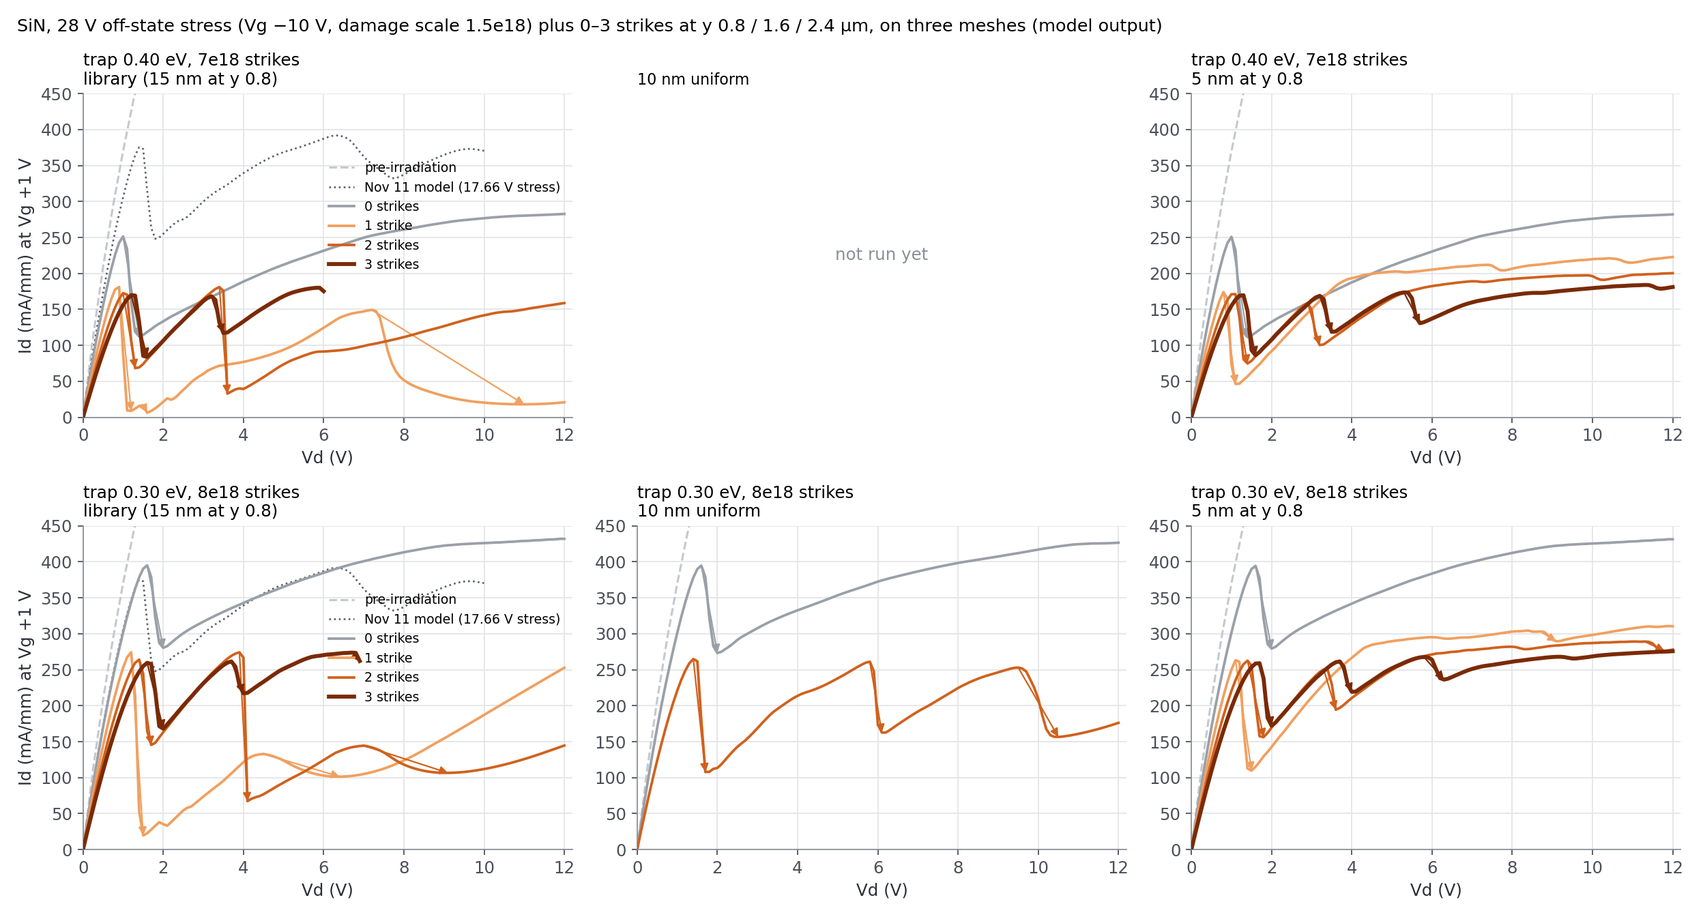
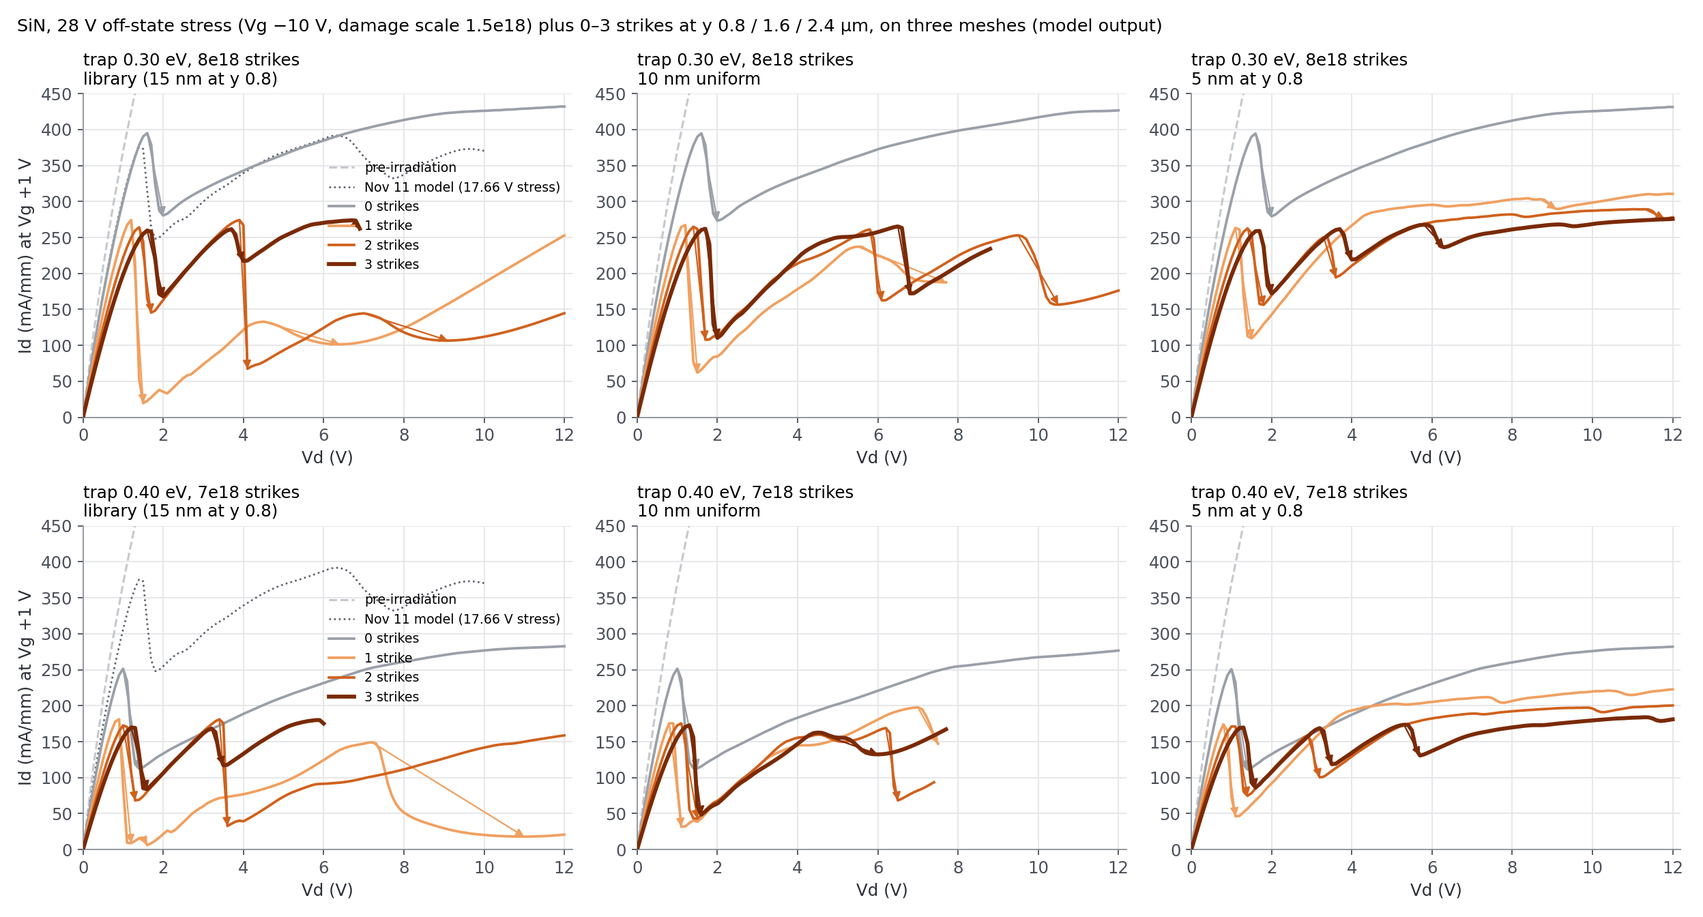
dashboard Nov 20 page: mesh-robust stepped series (trap 0.30 / 8e18 steps 2-3 times at every strike count on 15/10/5 nm); KB step-search table; fact-check fixes

diff --git a/dashboard/hemt-collapse-log.html b/dashboard/hemt-collapse-log.html
@@ -120,7 +120,7 @@ code { font-family: var(--f-mono); font-size: .88em; background: var(--gray-soft
   <header class="top">
     <h1>Radiation-induced current collapse: work log</h1>
     <p class="lede">FLOOXS model of an AlGaN/GaN HEMT: what ran each day and what is still open. Id in <span style="white-space:nowrap">mA/mm</span> at Vg = −2 V unless noted; work before Oct 1 used constant mobility and is archived.</p>
-    <p class="meta">Snapshot Nov 19, evening</p>
+    <p class="meta">Snapshot Nov 20, morning</p>
   </header>
 
   <div class="layout">
@@ -128,6 +128,7 @@ code { font-family: var(--f-mono); font-size: .88em; background: var(--gray-soft
       <a href="#overview" data-page="overview"><span class="d">Overview</span><span class="t">status</span></a>
       <div class="sep"></div>
       <div class="era">Field mobility</div>
+      <a href="#nov20" data-page="nov20"><span class="d">Nov 20</span><span class="t">mesh-robust steps</span></a>
       <a href="#nov19" data-page="nov19"><span class="d">Nov 19</span><span class="t">why it steps · mesh</span></a>
       <a href="#nov18" data-page="nov18"><span class="d">Nov 17–18</span><span class="t">steps · 3D fix</span></a>
       <a href="#nov16" data-page="nov16"><span class="d">Nov 14–16</span><span class="t">saved stress · library</span></a>
@@ -163,26 +164,27 @@ code { font-family: var(--f-mono); font-size: .88em; background: var(--gray-soft
       <section class="page" id="overview" data-title="Overview">
         <div class="pagehead">
           <h2>Where things stand</h2>
-          <p>Each drop is one damaged spot of the 2DEG switching once about 0.5 V of the shared drain voltage sits across it, so strikes add or delay steps; on a finer mesh the strike steps shrink (one strike's y 0.8 drop goes from 105 to 20 mA/mm). Next: a 2.5 nm check (~90 h stress), Ian's call.</p>
+          <p>With 8e18 strikes at trap level 0.30 eV, every 1-, 2- and 3-strike SiN curve so far steps two or three times on all three meshes (two 10 nm runs still going; first drop starting at 1.1–1.7 V everywhere, later steps move with the mesh); each first drop is one damaged spot switching at about 0.5 V across it, but HighK collapses with the same strikes. Next: the four-mesh check once the 2.5 nm stress (running) finishes.</p>
         </div>
         <div class="tiles">
           <div class="tile"><span class="k">Why the curves step</span><span class="v">One spot per drop</span><span class="s">Every first switch came at 0.46–0.59 V across the spot (14 of 14, both meshes); spots in series share Vd.</span></div>
-          <div class="tile"><span class="k">Mesh check of the steps</span><span class="v">Stress drop converged; strike steps not</span><span class="s">Stress-only drop 395 → 273–281 on all three meshes. 5 nm at y 0.8: one strike's y 0.8 drop shrinks 105 → 20 mA/mm and its 10.5 V drop is gone.</span></div>
+          <div class="tile"><span class="k">Mesh-robust series</span><span class="v">Steps on every mesh</span><span class="s">Trap 0.30 eV, 8e18 strikes: 2–3 drops for 1, 2 and 3 strikes on the 15, 10 and 5 nm meshes (two 10 nm runs still going); first drop starts at 1.1–1.7 V on all three.</span></div>
           <div class="tile"><span class="k">3D slice</span><span class="v">Matches 2D</span><span class="s">After the brick-gradient fix: 0.999 of 2D at 3 V (0.65 before; FANGS port, patched FLOOXS agrees), for tracks without stress damage.</span></div>
         </div>
 
         <div class="panel">
           <h3>Open items</h3>
           <ul class="todo">
-            <li><span class="pill open">open</span><span>Strike steps are mesh-dependent: with 5 nm at y 0.8 they shrink (3 strikes: no drop left). A 2.5 nm check needs a new ~90 h stress; Ian's call. <a class="daylink" href="#nov19">Nov 19</a></span></li>
-            <li><span class="pill noted">accepted</span><span>No single strike model steps SiN and keeps HighK flat (rounds H–K); goal closed on two partial results (Ian). <a class="daylink" href="#nov19">Nov 19</a></span></li>
+            <li><span class="pill progress">in progress</span><span>Four-mesh check: 2.5 nm stress at the strike sites running (Ian: keep it), then the trap 0.30 eV / 8e18 and trap 0.40 eV / 6e18 and 7e18 series on it; 10 nm runs (52072550) finishing. <a class="daylink" href="#nov20">Nov 20</a></span></li>
+            <li><span class="pill open">open</span><span>HighK collapses with the same 8e18 strikes (one strike, 15 nm mesh: 262 → 7 mA/mm at 1.0–1.4 V; HighK not run on the finer meshes), so the mesh-robust series steps SiN without the SiN vs HighK contrast. <a class="daylink" href="#nov20">Nov 20</a></span></li>
             <li><span class="pill open">open</span><span>3D stress damage: the stress field in 3D still has an unexplained 5.5e7 V/cm peak, and the gradient fix is only in a local FLOOXS copy. <a class="daylink" href="#nov18">Nov 18</a></span></li>
             <li><span class="pill open">open</span><span>SiN current recovers after each drop, and the onset doesn't move later with Vg as measured. <a class="daylink" href="#nov11">Nov 11</a></span></li>
             <li><span class="pill noted">noted</span><span>Waiting on a comprehensive measured set: same-device pre and post, width, Vth, Vg order. <a class="daylink" href="#nov05">Nov 5</a></span></li>
           </ul>
           <details class="older">
-            <summary>Older questions (13)</summary>
+            <summary>Older questions (14)</summary>
             <ul class="todo">
+              <li><span class="pill noted">accepted</span><span>No single strike model steps SiN and keeps HighK flat (rounds H–K); goal closed on two partial results (Ian). <a class="daylink" href="#nov19">Nov 19</a></span></li>
               <li><span class="pill noted">noted</span><span>Second SiN step from a smooth second strike: its position barely moves the curve, so a second strike doesn't make the second step. <a class="daylink" href="#nov13">Nov 13</a></span></li>
               <li><span class="pill open">open</span><span>Cause of the biased Ron rise: dielectric charge, access acceptors and mobility loss all fit so far. <a class="daylink" href="#nov05">Nov 5</a></span></li>
               <li><span class="pill noted">noted</span><span>Rad model fitting choices: no gate-edge damage, hand-placed second SiN strike site, lumped gate–drain leakage. <a class="daylink" href="#oct27">Oct 27</a></span></li>
@@ -199,6 +201,39 @@ code { font-family: var(--f-mono); font-size: .88em; background: var(--gray-soft
             </ul>
           </details>
         </div>
+      </section>
+      <div class="no-js-sep"></div>
+
+      <!-- NOV 20 -->
+      <section class="page" id="nov20" data-title="Nov 20">
+        <div class="pagehead">
+          <h2>Nov 20 · Stepped SiN curves that survive the mesh</h2>
+          <p>Full 0–3 strike series on three meshes: with 8e18 strikes at trap level 0.30 eV, every strike count so far steps two or three times on every mesh (two 10 nm runs still going), and only the later steps move.</p>
+          <div class="chips"><span class="chip era-field">field mobility</span><span class="chip">jobs 52044406 · 52072550 · 52044407 · 51998839</span></div>
+        </div>
+        <div class="cols">
+          <div class="panel"><h3>Done</h3>
+            <ul class="done">
+              <li>Mesh-robust series (trap 0.30 eV, 8e18 strikes at y 0.8 / 1.6 / 2.4 µm, 28 V stress at scale 1.5e18): every 1-, 2- and 3-strike curve so far has two or three drops on all three meshes, <span class="num">2 / 3 / 3</span> on 15 and 5 nm and 2 / 3 / 2 on 10 nm (the 10 nm 1- and 3-strike runs are at 7.7 and 8.8 V of 12; the 15 nm 3-strike third drop, 274 → 262 mA/mm, is its last step before the solver gave up at 7.0 V). The first drop starts at 1.1–1.2 / 1.4 / 1.6–1.7 V for 1 / 2 / 3 strikes, within 0.1 V on every mesh. The second moves with the mesh: for 2 and 3 strikes at 3.3–4.1 V on 15 and 5 nm and 5.8–6.8 V on 10 nm; for 1 strike at 4.5–6.1, 5.6–7.2 and 8.8–9.1 V on 15, 10 and 5 nm.</li>
+              <li>Trap 0.40 eV with 7e18 strikes gives one drop per strike on the 5 nm mesh (<span class="num">1 / 2 / 3</span> drops; 3 strikes at 1.4, 3.3 and 5.5 V), but not on the others (15 nm 3 / 2 / 2, its 3-strike run to 6.0 V; 10 nm 2 / 3 / 2 so far, at 7.4–7.7 V), so that clean staircase is a 5 nm result only.</li>
+              <li>Other settings on 5 nm: trap 0.40 eV with 6e18 keeps 2 / 3 / 3 (as on 15 nm; 3 / 3 / 4 on 10 nm), though its 3-strike later drops are only 13 and 10 mA/mm. Trap 0.40 eV with 5e18 loses its strike steps (one drop at every strike count, like the no-strike curve) and trap 0.30 eV with 6e18 (the Nov 18 series) keeps only 2 / 1 / 0. Trap 0.30 eV with 7e18 keeps 3 / 2 / 2 with small later drops (8–18 mA/mm; not run on 10 nm).</li>
+              <li>All 17 runs of radStepM (14 on the 5 nm mesh, 3 on 10 nm) reached 12 V (none gave up), through an HPG scheduler outage overnight. The SiN stress library (Vg −10 V, a state every volt) is complete to 84 V; the 2.5 nm stress at the strike sites is at 13 V of 28.</li>
+            </ul>
+          </div>
+          <div class="panel"><h3>Needed work</h3>
+            <ul class="todo">
+              <li><span class="pill progress">in progress</span><span>10 nm runs of the trap 0.40 eV / 7e18 series and the trap 0.30 eV / 8e18 1- and 3-strike curves (52072550), at 7.4–9 V of 12.</span></li>
+              <li><span class="pill progress">in progress</span><span>2.5 nm stress (52044407, Ian: keep it running), then the trap 0.30 eV / 8e18 and trap 0.40 eV / 6e18 and 7e18 series on it for a four-mesh check.</span></li>
+              <li><span class="pill open">open</span><span>HighK collapses with the same 8e18 strikes (one strike: 262 → 7 mA/mm at 1.0–1.4 V, 15 nm mesh), so this series has no SiN vs HighK contrast.</span></li>
+              <li><span class="pill open">open</span><span>Why the later steps move with the mesh (2- and 3-strike second drop at 3.3–4.1 V on 15 and 5 nm, 5.8–6.8 V on 10 nm; 1-strike second drop at 4.5–9.1 V).</span></li>
+            </ul>
+          </div>
+        </div>
+        <div class="figs wide">
+          <figure><a class="img" href="fig/mesh_deliverable.jpg" target="_blank" rel="noopener"><img src="fig/mesh_deliverable.jpg" alt="Six SiN Id-Vd panels at Vg +1 after the 28 V stress plus 0 to 3 strikes, drops marked with arrows. Top row, trap 0.30 eV with 8e18 strikes on the 15 nm, 10 nm and 5 nm meshes: every strike curve drops near 1.1-2.0 V and again later. Bottom row, trap 0.40 eV with 7e18 strikes: on the 5 nm mesh 1, 2 and 3 strikes give 1, 2 and 3 drops; the 15 nm and 10 nm meshes do not. The 10 nm strike curves stop at 7.4-8.8 V (runs still going)" loading="lazy"></a><figcaption><b>Stepped series on three meshes</b>Trap 0.30 eV, 8e18: 2–3 drops at every strike count on every mesh so far, first drop starting at 1.1–1.7 V. Trap 0.40 eV, 7e18: one drop per strike on 5 nm only. Nov 11 model dotted in the left panels; arrows mark drops of 10 mA/mm or more. Two 15 nm 3-strike runs end at 6.0 and 6.9 V (solver gave up); the 10 nm strike curves end at 7.4–8.8 V because those runs are still going (except the 8e18 2-strike curve).</figcaption></figure>
+          <figure><a class="img" href="fig/mesh_series.jpg" target="_blank" rel="noopener"><img src="fig/mesh_series.jpg" alt="Grid of SiN Id-Vd panels at Vg +1, one row per strike setting (trap 0.40 eV with 6, 5 and 7e18 strikes; trap 0.30 eV with 6, 7 and 8e18) and one column per mesh (15 nm, 10 nm, 5 nm), 0 to 3 strikes each; some 10 nm panels have only the no-strike curve, and the running 10 nm strike curves stop at 7.4-8.8 V" loading="lazy"></a><figcaption><b>Every setting on every mesh run so far</b>On 5 nm, 5e18 (at 0.40 eV) loses its strike steps, 6e18 (at 0.30 eV) keeps 2 / 1 / 0 drops and 7e18 (at 0.30 eV) keeps 3 / 2 / 2 with small later drops.</figcaption></figure>
+        </div>
+        <div class="pager"><a href="#overview">← Overview</a><a href="#nov19">Nov 19 →</a></div>
       </section>
       <div class="no-js-sep"></div>
 
@@ -223,7 +258,7 @@ code { font-family: var(--f-mono); font-size: .88em; background: var(--gray-soft
             <ul class="todo">
               <li><span class="pill open">open</span><span>2.5 nm check of the strike steps: needs a new 28 V stress (~90 h). Ian's call.</span></li>
               <li><span class="pill open">open</span><span>Drop size per switch (some ~100 mA/mm, others under 10), why ~0.5 V is sometimes not enough (2-strike stress band holds 0.50–0.54 V without switching), and why the 10.5 V second stage is missing on 5 nm.</span></li>
-              <li><span class="pill progress">in progress</span><span>SiN stress library: resumed from its 60 V state (51998839), at 69 V of 84.</span></li>
+              <li><span class="pill resolved">fixed Nov 20</span><span>SiN stress library: resumed from its 60 V state (51998839), at 69 V of 84.</span></li>
             </ul>
           </div>
         </div>
@@ -233,7 +268,7 @@ code { font-family: var(--f-mono); font-size: .88em; background: var(--gray-soft
           <figure><a class="img" href="fig/series_deliverable.jpg" target="_blank" rel="noopener"><img src="fig/series_deliverable.jpg" alt="Four panels, 28 V stress plus 0 to 3 strikes at Vg +1. Plain strikes: SiN steps, HighK also drops. Field-scaled strikes: SiN one drop that deepens with each strike, HighK stays on its no-strike curve" loading="lazy"></a><figcaption><b>The two partial results (goal deliverable)</b>Plain strikes step SiN but drop HighK; field-scaled strikes keep HighK flat. Row A's steps are on the 15 nm mesh.</figcaption></figure>
           <figure><a class="img" href="fig/map28_holeJ.jpg" target="_blank" rel="noopener"><img src="fig/map28_holeJ.jpg" alt="Two rows of hole current density maps, SiN and HighK, from before the strike to 1 ns at Vg -10 and Vd 28 V: a vertical track of high hole current under the strike at y 0.2 um that spreads through the buffer, nearly identical in both decks" loading="lazy"></a><figcaption><b>Strike transient at 28 V, hole current</b>Holes leave down the track and through the buffer to the substrate (0.34 mA/µm from 100 ps in both decks); SiN and HighK look alike.</figcaption></figure>
         </div>
-        <div class="pager"><a href="#overview">← Overview</a><a href="#nov18">Nov 17–18 →</a></div>
+        <div class="pager"><a href="#nov20">← Nov 20</a><a href="#nov18">Nov 17–18 →</a></div>
       </section>
       <div class="no-js-sep"></div>
 
@@ -296,7 +331,7 @@ code { font-family: var(--f-mono); font-size: .88em; background: var(--gray-soft
           <div class="panel"><h3>Needed work</h3>
             <ul class="todo">
               <li><span class="pill resolved">fixed Nov 17</span><span>Loading an at-bias state overflowed at 28 V; the driver now resets the potentials after loading.</span></li>
-              <li><span class="pill progress">in progress</span><span>Library above ~40 V: convergence untested; resume SiN from its last state at the 4-day limit.</span></li>
+              <li><span class="pill resolved">fixed Nov 20</span><span>Library above ~40 V: convergence untested; resume SiN from its last state at the 4-day limit.</span></li>
             </ul>
           </div>
         </div>

diff --git a/analysis/plot_meshSeries.py b/analysis/plot_meshSeries.py
@@ -29,7 +29,8 @@ COL = ["#9aa0a8", "#e0a060", "#c8641e", "#7a2e05"]
 
 def index():
     idx = {}
-    pats = ["results/2026111*_radStep[A-F]/task_*", "results/20261118_meshChkLoad_*/task_*", "results/20261119_radStepM/task_*"]
+    pats = ["results/2026111*_radStep[A-F]/task_*", "results/20261118_meshChkLoad_*/task_*", "results/20261119_radStepM/task_*",
+            "results/20261120_radStepM2/task_*"]
     for pat in pats:
         for t in glob.glob(pat):
             try:

diff --git a/kb/current-status.md b/kb/current-status.md
@@ -1,15 +1,17 @@
 ---
 title: Current status
 tags: [status]
-updated: 2026-11-19
+updated: 2026-11-20
 ---
-# Current status (as of 2026-11-19)
+# Current status (as of 2026-11-20)
 
 **Repo:** reorganised 2026-10-12 into `model/`, `drivers/`, `sweeps/`, `analysis/`, `data/` ([[repo-locations]]); FLOOXS internals in [[flooxs-overview]].
 
 **Model:** calibrated field mobility ([[calibration]]), local-field hot-electron capture ([[hot-electron-capture]]), Te-ramp stall rescue ([[te-ramp]]). **Since 2026-10-16 (Ian) the local-field model (`eTemp 0`, the model-file default) is the standard again, to save computation time.** The standard electron energy balance (`eTemp 1`, `etStats 0`, `etThermo 0`; standard Oct 13–16) is kept as an option: it collapses at the measured voltage but costs ~1.9 s per Newton iteration ([[energy-balance]]).
 
-**Now (Nov 19):** why the strike curves step, from per-Vd cuts (radStepDiag 51998840, radStepDiag5b 52018703; fact-checked). Every damaged spot (the stress band at y 0.45-0.72 and each strike) is a partly depleted pocket of the 2DEG; the pockets sit in series and share the drain voltage. Each first switch came once ~0.5 V sat across the pocket (|Ey| integral 0.46-0.59 V at all 14 first switches, both meshes; necessary, not always enough). The barrier traps over its drain flank finish filling with hot electrons (to 90-100% of the local damage) and Id drops. So with 1 / 2 / 3 strikes the same y 0.8 pocket switches at Vd 1.9 / 3.0 / 4.4 V. Far-strike switches can cost under 8 mA/mm, so switches and drops are not one-to-one. Mesh (5 nm over y 0.64-0.96, otherwise the library mesh): the 1-strike y 0.8 drop shrinks from 105 to 20 mA/mm and the 10.5 V drop is gone; the 2-strike curve keeps one 22 mA/mm drop and the 3-strike curve none. Next level, 2.5 nm (~90 h stress), is a decision for Ian. FLOOXS `print1d` resamples cuts to 500 points, so spacings read from cuts are unreliable ([[flooxs-gotchas]]). Details: [[step-mechanism]], [[step-search-28v]]. SiN stress library resume (51998839, from 60 V) at 69 V of 84.
+**Now (Nov 20):** a mesh-robust stepped series. With 8e18 strikes at trap level 0.30 eV (28 V stress at scale 1.5e18, strikes at y 0.8 / 1.6 / 2.4), every 1-, 2- and 3-strike SiN curve so far drops two or three times on the library, m10 (two runs still going) and m5fix meshes. The first drop starts at 1.1-1.7 V, within 0.1 V across meshes for each strike count; the later drops move with the mesh. HighK collapses with the same strikes. Trap 0.40 eV with 7e18 gives one drop per strike, but only on m5fix. The 2.5 nm stress (52044407, Ian: keep it running) is next for a four-mesh check. Details: [[step-search-28v]].
+
+**Nov 19:** why the strike curves step, from per-Vd cuts (radStepDiag 51998840, radStepDiag5b 52018703; fact-checked). Every damaged spot (the stress band at y 0.45-0.72 and each strike) is a partly depleted pocket of the 2DEG; the pockets sit in series and share the drain voltage. Each first switch came once ~0.5 V sat across the pocket (|Ey| integral 0.46-0.59 V at all 14 first switches, both meshes; necessary, not always enough). The barrier traps over its drain flank finish filling with hot electrons (to 90-100% of the local damage) and Id drops. So with 1 / 2 / 3 strikes the same y 0.8 pocket switches at Vd 1.9 / 3.0 / 4.4 V. Far-strike switches can cost under 8 mA/mm, so switches and drops are not one-to-one. Mesh (5 nm over y 0.64-0.96, otherwise the library mesh): the 1-strike y 0.8 drop shrinks from 105 to 20 mA/mm and the 10.5 V drop is gone; the 2-strike curve keeps one 22 mA/mm drop and the 3-strike curve none. Next level, 2.5 nm (~90 h stress), is a decision for Ian. FLOOXS `print1d` resamples cuts to 500 points, so spacings read from cuts are unreliable ([[flooxs-gotchas]]). Details: [[step-mechanism]], [[step-search-28v]]. SiN stress library resume (51998839, from 60 V) at 69 V of 84.
 
 **Earlier (Nov 18):** goal (Ian, Nov 17): stepped curves at the 28 V stress with 1-3 strikes. SiN steps with 5-8e18 strikes (one 6e18 strike: drops near 2, 6.3, 10.5 V), but strikes that dense also drop HighK. Field-scaled strikes (`gaussFieldM`, rounds H/I) keep HighK flat but give SiN one drop that deepens with each strike. Goal closed with two partial results (Ian, Nov 18): `figures/rad/step28/series_deliverable.png`. Mesh check of the steps running (51883722); round J (51922589, trap level / depth with field-scaled strikes) running as an optional follow-up. 3D brick-gradient bug fixed in a patched FLOOXS copy (3D matches 2D for tracks). Deck: https://claude.ai/artifact/5gkYKv6DZjGL7PAuTvZxR6. Details: [[step-search-28v]], [[3d-plan]].
 

diff --git a/kb/results/step-search-28v.md b/kb/results/step-search-28v.md
@@ -48,6 +48,23 @@ Same six cases on the library mesh, m10 (meshChkLoad_m10 51939191) and m5fix (51
 - **Why the steps move:** see [[step-mechanism]]. The first-switch threshold (~0.5 V across a damaged pocket) agrees within 0.04 V on both meshes. The switched region (22-35 nm) is only ~2 cells on the library mesh at y 0.84, so it holds more voltage there, and the next pocket switches later. Why the 10.5 V second-stage drop is missing on 5 nm is open.
 - **Next level:** 2.5 nm at the strike sites (new stress, ~90 h); Ian's call.
 
+## Mesh-robust series (2026-11-20, radStepM 52044406, radStepM2 52072550)
+
+Full 0-3 strike series of the settings that kept steps at 5 nm, rerun on m5fix and m10. Figures `figures/rad/step28/mesh_deliverable.png` (`analysis/plot_meshDeliverable.py lev30_n8 lev40_n7`) and `mesh_series.png` (`analysis/plot_meshSeries.py`, every setting × mesh). Drops ≥ 8 mA/mm for 1 / 2 / 3 strikes:
+
+| Setting | Library (15 nm at y 0.8) | m10 | m5fix |
+|---|---|---|---|
+| trap 0.30, 8e18 | 2 / 3 / 3 (N3 gave up at 7.0 V) | 2 / 3 / 2 (N1, N3 partial at 7.7 / 8.8 V) | 2 / 3 / 3 |
+| trap 0.40, 7e18 | 3 / 2 / 2 (N3 gave up at 6.1 V) | 2 / 3 / 2 (partial, 7.4-7.7 V) | **1 / 2 / 3** |
+| trap 0.40, 6e18 | 2 / 3 / 3 | 3 / 3 / 4 | 2 / 3 / 3 (later drops 10-12 mA/mm) |
+| trap 0.40, 5e18 | 2 / 2 / 2 | — | 1 / 1 / 1 (stress drop only) |
+| trap 0.30, 7e18 | 2 / 3 / 4 | — | 3 / 2 / 2 (later drops 8-18 mA/mm) |
+| trap 0.30, 6e18 (row A) | 3 / 2 / 1 | 3 / 3 / 3 | 2 / 1 / 0 |
+
+- **Trap 0.30 eV with 8e18 strikes is the mesh-robust stepped series.** Every 1-, 2- and 3-strike curve drops two or three times on all three meshes. The first drop starts at 1.1-1.2 / 1.4 / 1.6-1.7 V for 1 / 2 / 3 strikes, within 0.1 V on every mesh. The second moves with the mesh: for 2 and 3 strikes at 3.3-4.1 V on library and m5fix and 5.8-6.8 V on m10; for 1 strike at 4.5-6.1 / 5.6-7.2 / 8.8-9.1 V (library / m10 / m5fix). HighK with the same strikes collapses (library: one strike 262 → 7 mA/mm near 1 V), so the SiN vs HighK contrast is not part of this result.
+- **Trap 0.40 eV with 7e18 gives one drop per strike only on m5fix** (3 strikes at 1.4, 3.3, 5.5 V).
+- **Next:** the 2.5 nm stress (meshChkStress2p5 52044407, Ian: keep it running), then these series on it.
+
 ## Mesh (audit 2026-11-18, before the check)
 
 Every round A-I task runs on the 28 V library mesh (93,080 points, identical for SiN and HighK; stressLoad keeps the file's mesh). The depth (x) mesh is fine: 1 nm through the AlGaN, first GaN line 1 nm below the interface. The channel (y) spacing at the 2DEG:

diff --git a/progress.md b/progress.md
@@ -2244,3 +2244,5 @@ Submitted **job 44441813** → `results/20261002_posMapLate/`. Polling every 5 m
 - **radStepM2 52072550 submitted 08:28** (the Nov 19-20 retries never got through): m10 trap 0.40 7e18 N1-3, trap 0.30 8e18 N1 / N3.
 - **meshChkStress2p5 52044407** at Vd 12 of 28 after 12 h. **SiN stress library resume 51998839 COMPLETED** (to 84 V).
 - **Ian (Nov 20): "keep the 2.5 nm stress running"** (meshChkStress2p5 52044407). Next after it saves Vd 28: load the trap 0.40 / 7e18, trap 0.30 / 8e18 and trap 0.40 / 6e18 0-3 strike series on it (four-mesh check).
+- **Dashboard Nov 20 page** (mesh-robust series), fact-checked by two agents (workflow wf_0888c116-17b, ~90 claims, 28 findings applied): 10 nm counts marked partial; first drop starts at 1.1-1.7 V (within 0.1 V across meshes per strike count); second-drop ranges given per strike count; trap 0.30 / 7e18 on 5 nm keeps 3 / 2 / 2 (small later drops), not "loses its steps"; radStepM is 14 runs on 5 nm + 3 on 10 nm. meshChkStress2p5 was at Vd 13 of 28 at 09:40 (HPG listing).
+- **Dashboard** republished with the Nov 20 page (https://claude.ai/artifact/7gwNdzD3SysL7TP9swRkEd).
